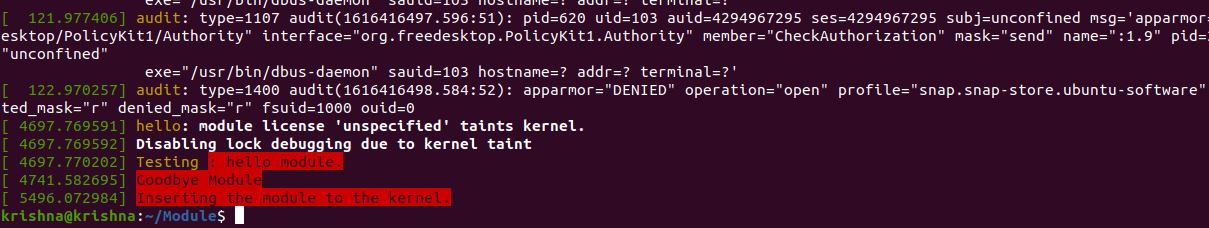
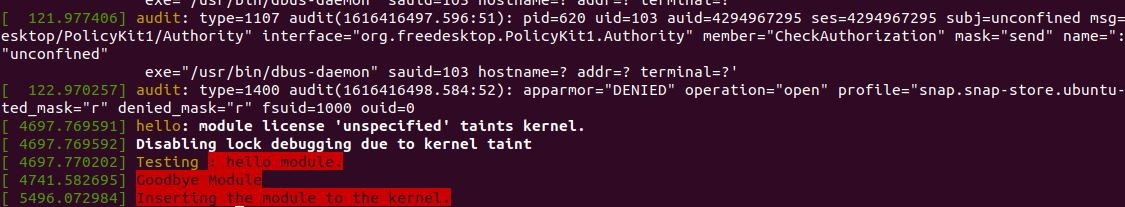
fix

Changed region(s): [[0.0, 0.2899, 1.0, 1.0], [0.0, 0.0, 1.0, 0.2899], [0.9956, 0.3478, 1.0, 0.3768]]

diff --git a/Lab2/q5/README.md b/Lab2/q5/README.md
@@ -3,16 +3,16 @@ Write a C program, compile it as module, insert into kernel, check message in lo
 # Overview
 We have implemented hello.c program which will be compiled as a kernel module. This module will print a message when we load the module and will also print a message when we unload the module.
 ```
-krishna@krishna:~/Module$ make
+bazif@omen:~/Module$ make
 ```
 This commmand is used to compile the souce code hello.c to create a module called hello.ko
 ![Screenshot](make.jpeg)
 ```
-krishna@krishna:~/Module$ sudo insmod hello.ko
+bazif@omen:~/Module$ sudo insmod hello.ko
 ```
 This command will call init_module() which is called when the module is inserted into the kernel or loaded to the kernel.
 ```
-krishna@krishna:~/Module$ sudo rmmod hello.ko
+bazif@omen:~/Module$ sudo rmmod hello.ko
 ```
 This command will call cleanup_module() which is called just before the module is unloaded from the kernel.
 # Ouput
